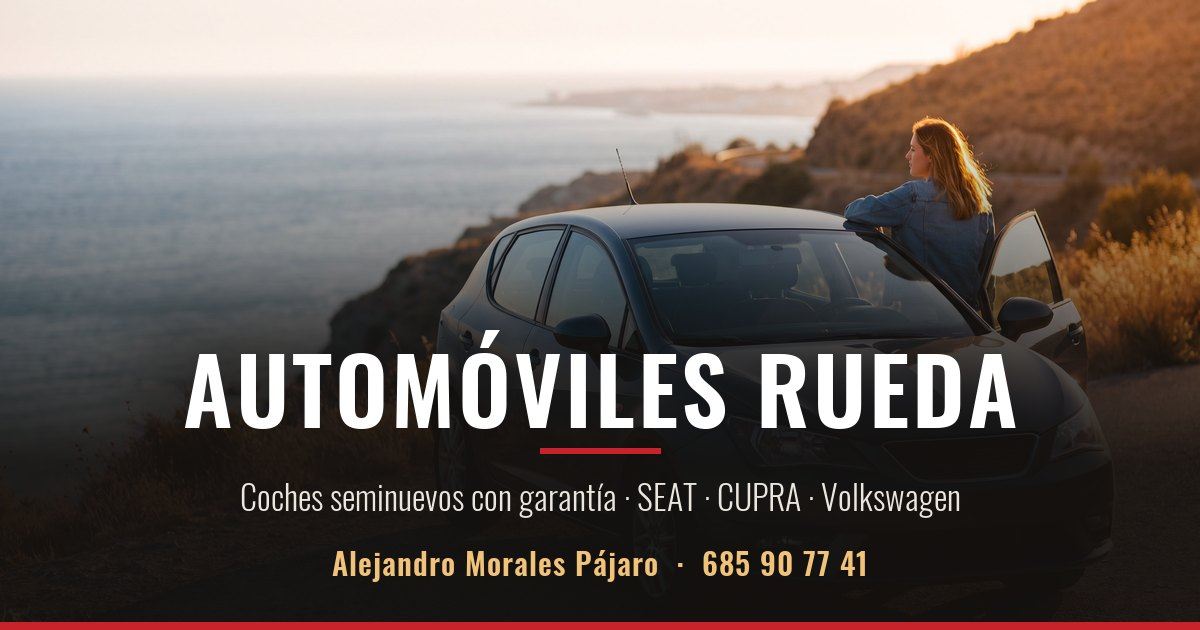
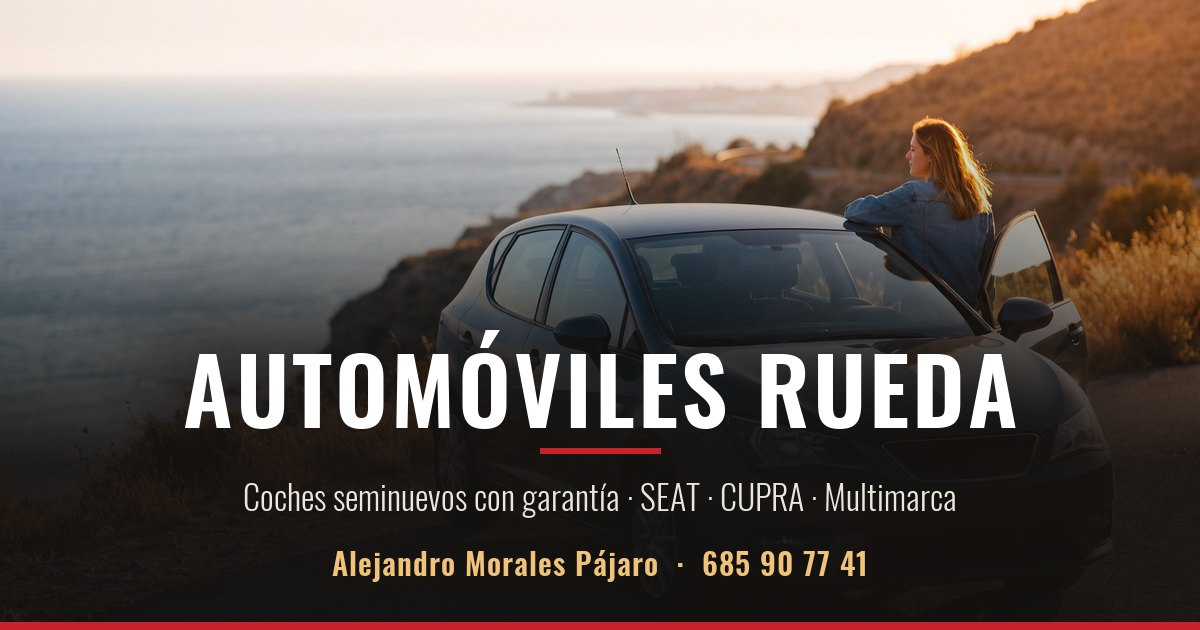
Use "SEAT, CUPRA y Multimarca" instead of Volkswagen
Matches the tagline already used in the hero: link preview image and
description, and the homepage <title>.

Changed region(s): [[0.185, 0.754, 0.8017, 0.8143]]

diff --git a/generar_web.py b/generar_web.py
@@ -1719,7 +1719,7 @@ def og_portada_html(perfil: dict, total: int) -> str:
     nombre_img = "og-portada-" + perfil["id"] + ".jpg"
     imagen = DOMINIO_BASE + asset(nombre_img)
     titulo = "Automóviles Rueda — Coches seminuevos con garantía"
-    desc = (f"{total} coches SEAT, CUPRA y Volkswagen con garantía Das WeltAuto en Málaga. "
+    desc = (f"{total} coches SEAT, CUPRA y multimarca con garantía Das WeltAuto en Málaga. "
             f"Tu asesor: {datos['nombre']} · {datos['telefono']}")
     return f'''<meta property="og:type" content="website">
 <meta property="og:site_name" content="Automóviles Rueda">
@@ -1755,7 +1755,7 @@ def build_index_html(cars: list[dict], rutas: dict[int, list[str]], perfil: dict
 <head>
 <meta charset="UTF-8">
 <meta name="viewport" content="width=device-width, initial-scale=1.0">
-<title>Automóviles Rueda — Coches seminuevos SEAT · CUPRA · Volkswagen</title>
+<title>Automóviles Rueda — Coches seminuevos SEAT · CUPRA · Multimarca</title>
 <meta name="description" content="Catálogo de vehículos seminuevos con garantía oficial Das WeltAuto. {len(visibles)} coches disponibles en Málaga.">
 {og_portada_html(perfil, len(visibles))}
 <link rel="preconnect" href="https://fonts.googleapis.com">

diff --git a/generar_og_portada.py b/generar_og_portada.py
@@ -53,7 +53,7 @@ def generar(perfil: dict) -> Path:
 
     _centrado(d, 318, "AUTOMÓVILES RUEDA", titulo, (255, 255, 255), tracking=3)
     d.rectangle(((W - 120) / 2, 448, (W + 120) / 2, 453), fill=ROJO)
-    _centrado(d, 470, "Coches seminuevos con garantía · SEAT · CUPRA · Volkswagen", lema, (235, 230, 222))
+    _centrado(d, 470, "Coches seminuevos con garantía · SEAT · CUPRA · Multimarca", lema, (235, 230, 222))
     _centrado(d, 540, f"{perfil['nombre']}  ·  {perfil['telefono']}", pie, (240, 194, 122), tracking=1)
     d.rectangle((0, H - 8, W, H), fill=ROJO)
 
